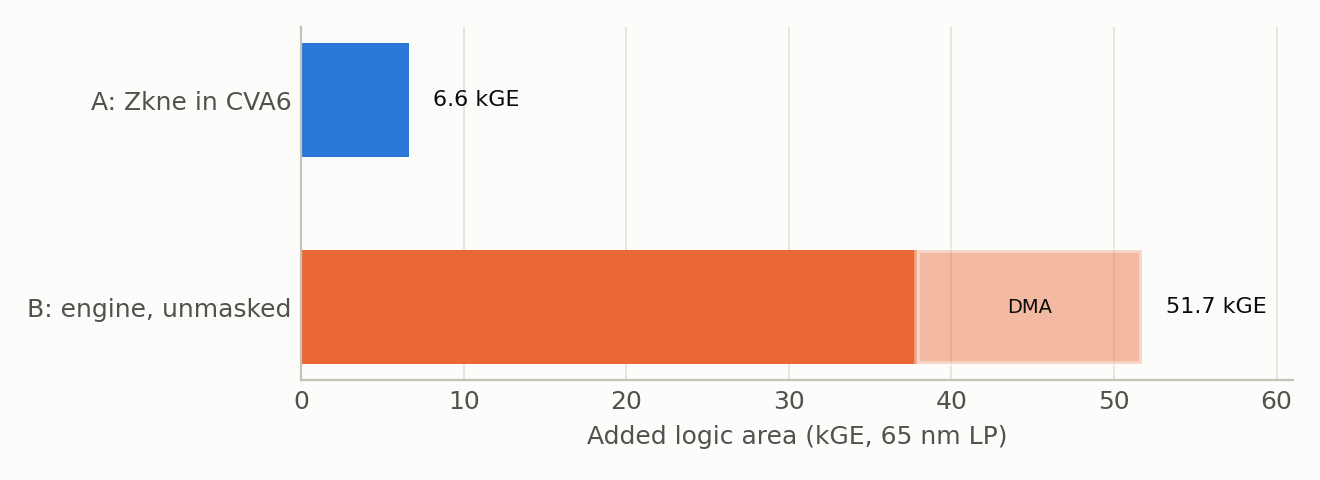
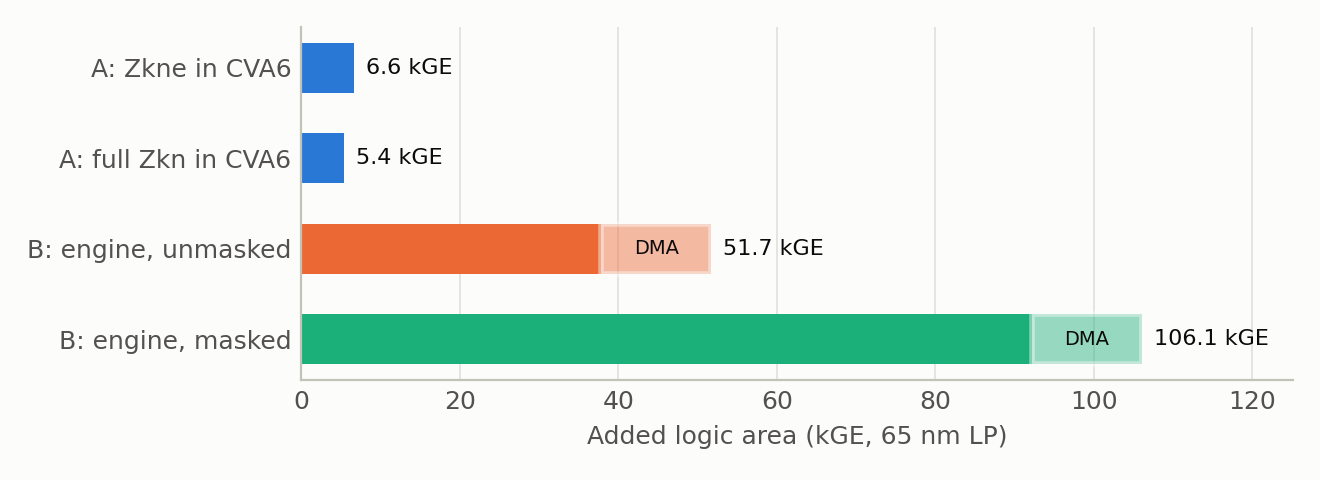
added complete results from the last simulation and remaining synthesis
Software AES on the 1 MB model (all 24 load runs pass), CVA6 with full
Zkn, CVA6 with and without Zkne at 2.5 ns, the masked engine and the
standalone Zkne unit. README gives the final numbers.

diff --git a/experiments/results/summary.md b/experiments/results/summary.md
@@ -30,9 +30,10 @@ on crypto (for the engine: set-up and tag check, not the wait).
 | MLP 784-128-10 | B: OpenTitan AES + DMA, unmasked | 349,073 | 273,852 | 2.68 | 40,600 | 52.6x | 3.58x |
 | MLP 784-128-10 | B: OpenTitan AES + DMA, masked | 840,078 | 764,863 | 7.48 | 44,675 | 18.8x | 1.28x |
 | MLP 784-1024-256-10 | No protection (copy only) | 782,399 | 0 | 0.00 | 0 | - | - |
-| MLP 784-1024-256-10 | A: Zkne instructions | 11,066,791 | 10,277,056 | 9.58 | 10,277,056 | - | 1.00x |
-| MLP 784-1024-256-10 | B: OpenTitan AES + DMA, unmasked | 3,660,471 | 2,872,046 | 2.68 | 425,488 | - | 3.58x |
-| MLP 784-1024-256-10 | B: OpenTitan AES + DMA, masked | 8,811,526 | 8,021,541 | 7.48 | 466,894 | - | 1.28x |
+| MLP 784-1024-256-10 | Software AES (baseline) | 151,768,347 | 150,978,922 | 140.73 | 150,978,922 | 1.0x | 0.07x |
+| MLP 784-1024-256-10 | A: Zkne instructions | 11,066,791 | 10,277,056 | 9.58 | 10,277,056 | 14.7x | 1.00x |
+| MLP 784-1024-256-10 | B: OpenTitan AES + DMA, unmasked | 3,660,471 | 2,872,046 | 2.68 | 425,488 | 52.6x | 3.58x |
+| MLP 784-1024-256-10 | B: OpenTitan AES + DMA, masked | 8,811,526 | 8,021,541 | 7.48 | 466,894 | 18.8x | 1.28x |
 
 ## Tile size (100 KB model): check + decrypt, cycles/byte
 
@@ -48,9 +49,14 @@ on crypto (for the engine: set-up and tag check, not the wait).
 | Design | Clock (ns) | Area (um^2) | kGE | Slack (ns) |
 |---|---:|---:|---:|---:|
 | cva6_base | 4 | 538,305 | 373.8 | +0.000 |
+| cva6_base | 2.5 | 578,199 | 401.5 | +0.000 |
+| cva6_zkn | 4 | 546,022 | 379.2 | +0.000 |
 | cva6_zkne | 4 | 547,860 | 380.5 | +0.000 |
+| cva6_zkne | 2.5 | 575,557 | 399.7 | +0.000 |
 | dma | 4 | 19,927 | 13.8 | +1.446 |
+| engine_masked | 4 | 152,730 | 106.1 | +0.000 |
 | engine_unmasked | 4 | 74,458 | 51.7 | +0.000 |
+| zkne_unit | 4 | 8,520 | 5.9 | +1.211 |
 
 ## Cost model, fitted to the measurements
 
@@ -58,7 +64,7 @@ Check + decrypt cycles = a x (16-byte blocks) + b x (tiles), least squares over 
 
 | Method | a: cycles per block | cycles per byte | b: cycles per tile |
 |---|---:|---:|---:|
-| Software AES (baseline) | 2248.3 | 140.52 | 1,409 |
+| Software AES (baseline) | 2239.0 | 139.94 | 3,267 |
 | A: Zkne instructions | 150.1 | 9.38 | 824 |
 | B: OpenTitan AES + DMA, unmasked | 36.0 | 2.25 | 1,753 |
 | B: OpenTitan AES + DMA, masked | 112.0 | 7.00 | 1,945 |
@@ -76,4 +82,5 @@ B: OpenTitan AES + DMA, masked (T_B = max(S/BW_mem, N_blk/Theta_eng) + c_setup):
 - Area: Zkne adds 6.6 kGE to CVA6 (1.77 % of the 374 kGE core logic); the unmasked engine with DMA is 51.7 kGE, 7.8x as much.
   - A: Zkne: 16.1 bytes per 1000 cycles per added kGE
   - B: engine: 8.6 bytes per 1000 cycles per added kGE
+  - B: engine, masked: 1.3 bytes per 1000 cycles per added kGE
 - CPU: with Zkne the CPU does all the work, 9.38 cycles per byte. At 250 MHz that is 26.7 MB/s with the whole CPU, 2.67 MB/s with 10 % of it. Beyond that load rate (model size x reloads per second) the engine is the only option.

diff --git a/README.md b/README.md
@@ -12,25 +12,32 @@ Baselines: no protection, and software AES on CVA6. Proposal:
 
 Honours research project, IIIT Hyderabad.
 
-## Status (16 November 2026)
+## Results (22 November 2026)
 
-Measured so far, with 4 KB tiles (details in `experiments/results/summary.md`):
+All 24 load measurements pass (decrypted model matches, flipped bit rejected,
+int8 inference gives the expected outputs). With 4 KB tiles (details and
+charts in `experiments/results/`):
 
-| Method | Check + decrypt (cycles/byte) | Added logic area |
-|---|---:|---:|
-| Software AES | 141 | none |
-| A: Zkne in CVA6 | 9.6 | 6.6 kGE (1.8 % of CVA6 logic) |
-| B: OpenTitan AES + DMA, unmasked | 2.7 | 51.7 kGE |
-| B: OpenTitan AES + DMA, masked | 7.5 | not synthesized yet |
+| Method | Check + decrypt (cycles/byte) | CPU busy (cycles/byte) | Added logic area (65 nm) |
+|---|---:|---:|---:|
+| Software AES | 141 | 141 | none |
+| A: Zkne in CVA6 | 9.6 | 9.6 | 5.9 kGE (Zkn unit alone; 1.6 % of CVA6 logic) |
+| B: OpenTitan AES + DMA, unmasked | 2.7 | 0.40 | 51.7 kGE (DMA 13.8) |
+| B: OpenTitan AES + DMA, masked | 7.5 | 0.44 | 106.1 kGE (DMA 13.8) |
 
-Still to run (the workstation was needed by others):
+- Option B is faster than A once a tile holds more than about 130 bytes
+  (unmasked) or 470 bytes (masked), and keeps the CPU almost free.
+- Option A gives about twice the throughput per added kGE of the unmasked
+  engine (16.1 vs 8.6 bytes per 1000 cycles per kGE), and 12x the masked one.
+- Fmax: CVA6 meets 2.5 ns (400 MHz) with and without Zkne; the critical path
+  at 2.5 ns does not go through the AES unit. Higher clocks were not tried.
+- Area of whole-CVA6 runs varies by 1 to 2 kGE between synthesis runs
+  (CVA6 with full Zkn came out 1.3 kGE smaller than with Zkne only), so the
+  added area of Zkne is taken from the Zkn unit synthesized alone (5.9 kGE,
+  including about 200 wrapper registers); the CVA6 difference (6.6 kGE)
+  agrees with it.
 
-    scripts/cva6_sim.sh run build/sw/cva6/mlp_l_t4096_sw/loader.elf mlp_l_t4096_sw   # software AES, 1 MB model, ~2.5 h
-    for d in cva6_zkn engine_masked zkne_unit; do scripts/synth.sh $d; done
-    scripts/synth.sh cva6_base 2.5 && scripts/synth.sh cva6_zkne 2.5                 # Fmax with and without Zkne
-    python3 experiments/report.py
-
-Then the written report (not started).
+Not done: the written report.
 
 ## What is measured, and on what
 
